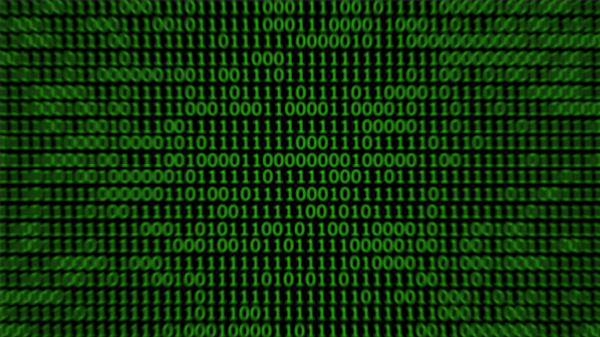
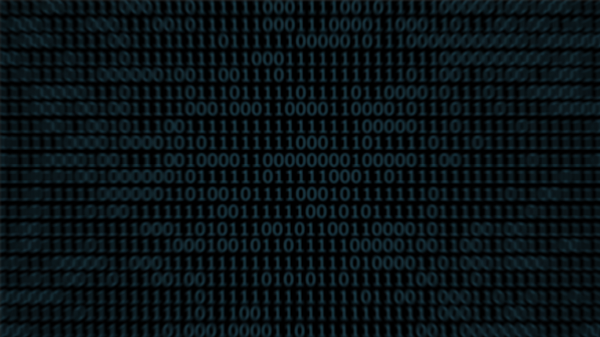
Adicionando formacao

diff --git a/index.html b/index.html
@@ -17,12 +17,14 @@
             </header>
             <nav class="navigation">
               <ul class="nav-list">
-                <li class="list-item active"><a href="#"><i class="fab fa-codepen"></i>Perfil pessoal</a></li>
-                <li class="list-item">
-                  <a href="#"><i class="fab fa-linux"></i>Formação</a>
+                <li class="list-item active">
+                  <a href="#" onclick="page1()"><i class="fab fa-codepen"></i>Perfil pessoal</a>
                 </li>
                 <li class="list-item">
-                  <a href="#"><i class="fab fa-html5"></i>Habilidades</a>
+                  <a href="#" onclick="page2()" ><i class="fab fa-linux"></i>Formação</a>
+                </li>
+                <li class="list-item">
+                  <a href="#" ><i class="fab fa-html5"></i>Habilidades</a>
                 </li>
                 <li class="list-item">
                   <a href="#"><i class="fab fa-css3-alt"></i>Experiência</a>
@@ -35,7 +37,7 @@
             
         </main>
         <div class="back">
-            <article class="center" id="sobre">
+            <article class="center" id="page1">
               <div class="code">
                 <div class="pc">
                   <div class="prompt">
@@ -47,9 +49,23 @@
                     
                 </div>
             </article>
-            <!-- <article class="center" id="formacao">
+            <article class="center" id="page2">
+              <div class="circle_text" id ="formacao1">
+              <div class="circle img_radius" style="background-image: url('https://www.ufrn.br/resources/documentos/identidadevisual/brasao/brasao_flat.png')"> </div>
+              <p>Sempre em busca de conhecimento tecnológico no mundo da musica, fotografia, jogos, robótica. Mas existe uma atenção redobrada para a programação , mas precisamente na linguagem JAVA</p>
+            </div>
+            <div class="circle_text"id ="formacao2">
+              <div class="circle img_radius" style="background-image: url('https://portal.ifrn.edu.br/campus/paudosferros/noticias/proposta-da-lei-orcamentaria-2020-preocupa-ifrn/image_preview')"> </div>
+              <p>Sempre em busca de conhecimento tecnológico no mundo da musica, fotografia, jogos, robótica. Mas existe uma atenção redobrada para a programação , mas precisamente na linguagem JAVA</p>
+            </div>
+            </article>
+            <article class="center" id="page3">
+              
+            </article>
+            <article class="center" id="page4">
+              
                 
-            </article> -->
+            </article>
         </div>
     </div>
     </body>
@@ -60,7 +76,14 @@
         
 </html>
 <script>
+  const p1 = document.getElementById("page1");
+  const p2 = document.getElementById("page2");
+  const p3 = document.getElementById("page3");
+  const p4 = document.getElementById("page4");
   const saida = document.querySelector(".saida");
+  const formacao1 = document.getElementById("formacao1");
+  const formacao2 = document.getElementById("formacao2");
+  const sidebar = document.getElementsByClassName("sidebar");
 
 function digitacao(texto, contador) {
   if (contador < texto.length) {
@@ -68,11 +91,64 @@ function digitacao(texto, contador) {
       saida.textContent += texto.charAt(contador);
       contador++;
       digitacao(texto, contador);
-    }, 89);
+    }, 90);
   }
 }
 
 digitacao("Sempre em busca de conhecimento tecnológico no mundo da musica, fotografia, jogos, robótica. Mas existe uma atenção redobrada para a programação , mas precisamente na linguagem JAVA.",0);
+
+
+function animacaoFormacao(margin_rigth, formacao) {
+  if (0 <= margin_rigth) {
+    setTimeout(() => {
+      formacao.style.marginLeft =margin_rigth;
+      margin_rigth=margin_rigth-1;
+      animacaoFormacao(margin_rigth,formacao);
+    }, 1);
+    
+  }
+  if(margin_rigth==0 && formacao==formacao1){
+    formacao2.style.display="flex";
+      animacaoFormacao(100,formacao2)
+
+    }
+  
+}
+
+
+
+
+function page1() {
+  clearTimeout(digitacao)
+  p1.style.display = "block";
+  p2.style.display = "none";
+  p3.style.display = "none";
+  p4.style.display = "none";
+ }
+function page2() {
+
+  p1.style.display = "none";
+  p2.style.display = "block";
+  p3.style.display = "none";
+  p4.style.display = "none";
+  formacao2.style.display="none";
+  animacaoFormacao(100,formacao1)
+}
+function page3() {
+  p1.style.display = "none";
+  p2.style.display = "none";
+  p3.style.display = "block";
+  p4.style.display = "none";
+}
+function page4() { 
+  p1.style.display = "none";
+  p2.style.display = "none";
+  p3.style.display = "none";
+  p4.style.display = "block";
+  
+}
+
+
 
 
 </script>

diff --git a/style.css b/style.css
@@ -7,13 +7,32 @@
   padding: 0;
   box-sizing: border-box;
 }
-
+.circle{
+  margin: 2em;
+    width: 22em;
+    background-color: aliceblue;
+    height: 10em;
+    border-radius: 10em;
+}
+.img_radius{
+    background-position: center;
+    background-size: cover;
+}
 .back{
    width: 100%;
    height: 100%;
-   background-color: cadetblue;
    border-radius: 0em 1em 1em 0em;
+   background-image: url("assets/img/binario.png") ;
 }
+.circle_text{
+  background-color: #7c83f7;
+  color: white;
+  width: 50em;
+  display: flex;
+  align-items: center;
+  margin: 2em;
+}
+
 .main{
 
  
@@ -25,6 +44,7 @@
   padding: 1rem;
   width: 100%;
   background-image:url("https://thumbs.dreamstime.com/b/tela-do-fundo-da-tecnologia-do-c%C3%B3digo-fonte-e-do-sum%C3%A1rio-95206313.jpg");
+  background-size:cover
   /* filter: blur(5px);  */
 }
 body {
